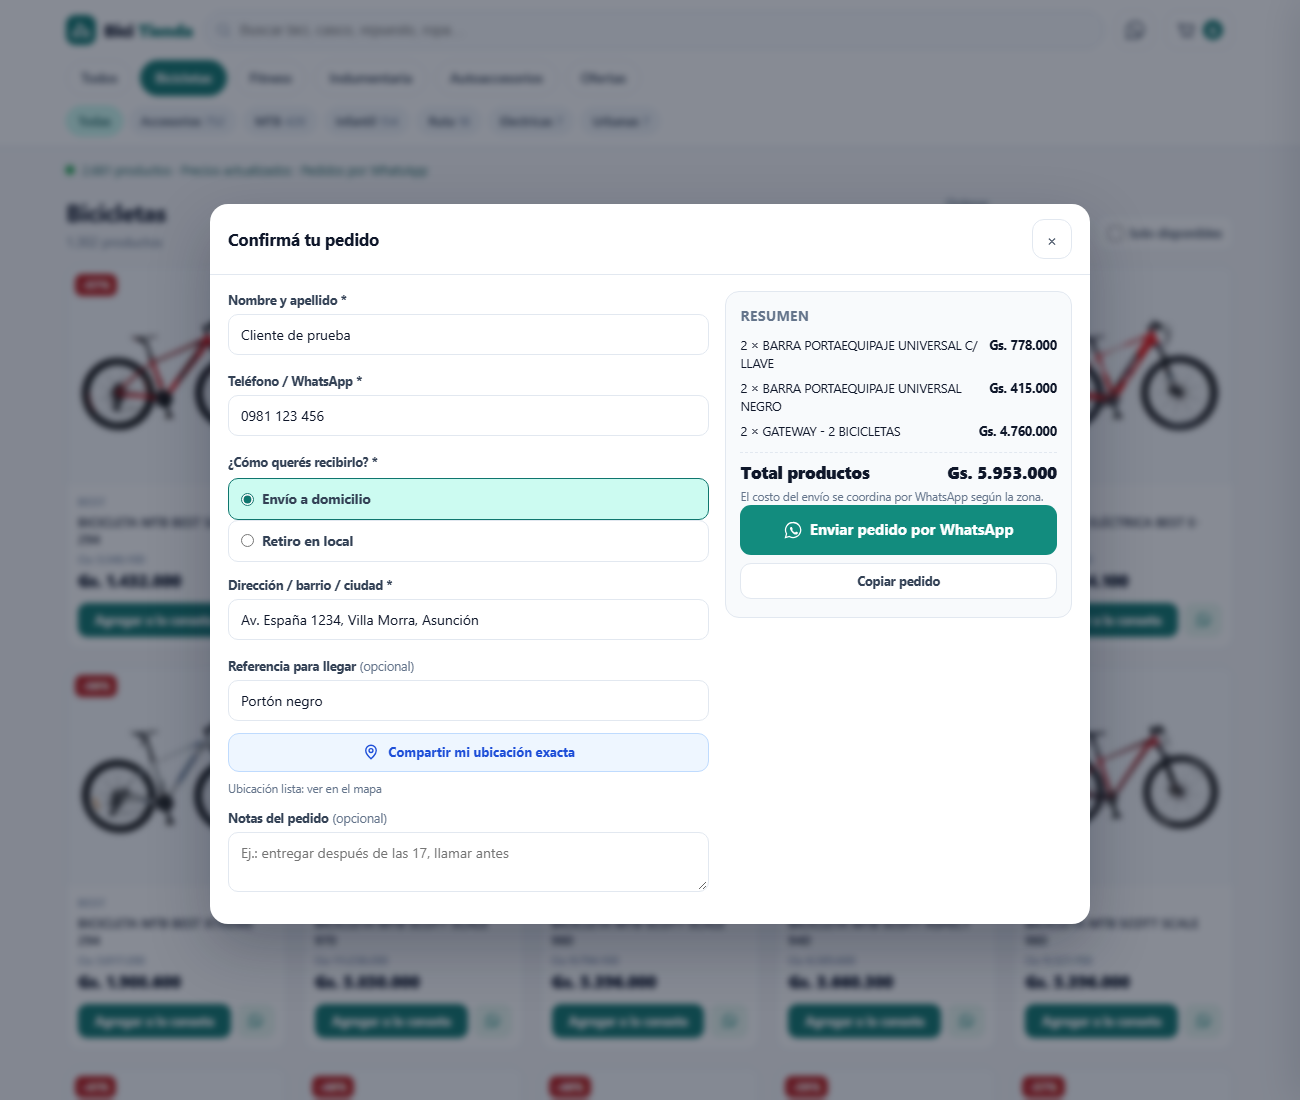
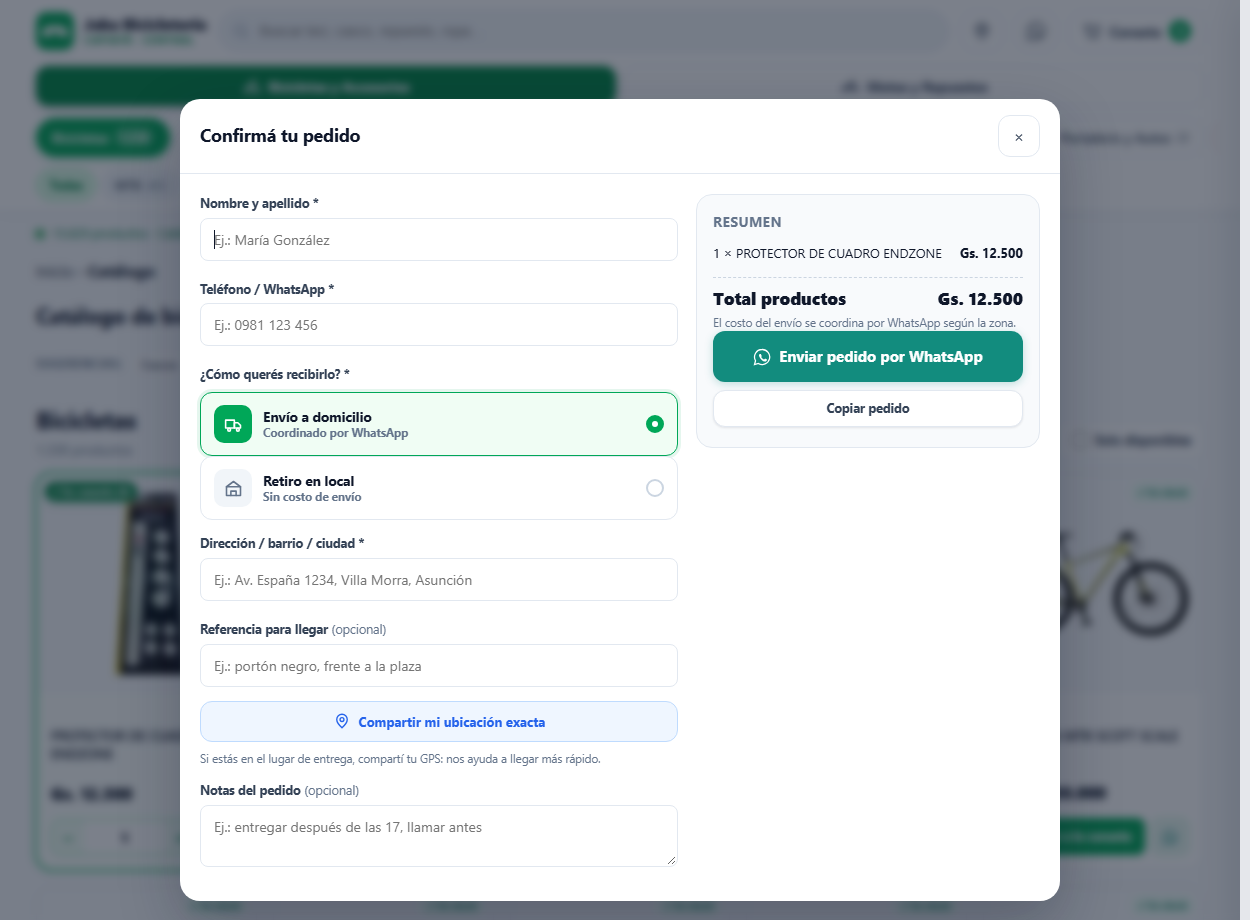
Rediseñar botones de entrega del checkout (envio/retiro)

diff --git a/tienda/tienda.html b/tienda/tienda.html
@@ -41,9 +41,9 @@
 <link rel="preconnect" href="https://www.chacomer.com.py" crossorigin>
 <link rel="dns-prefetch" href="https://www.ciclovia.com.py">
 <link rel="dns-prefetch" href="https://www.chacomer.com.py">
-<link rel="preload" as="style" href="assets/estilos.css?v=20261116c">
+<link rel="preload" as="style" href="assets/estilos.css?v=20261116d">
 <link rel="preload" as="fetch" crossorigin href="data/indice.json">
-<link rel="preload" as="script" href="assets/app.js?v=20261116c">
+<link rel="preload" as="script" href="assets/app.js?v=20261116d">
 
 <!-- Geolocalización (SEO local) -->
 <meta name="geo.region" content="PY-11">
@@ -56,7 +56,7 @@
 <link rel="apple-touch-icon" sizes="180x180" href="assets/apple-touch-icon.png">
 <link rel="shortcut icon" href="assets/favicon.ico">
 <link rel="manifest" href="manifest.json">
-<link rel="stylesheet" href="assets/estilos.css?v=20261116c">
+<link rel="stylesheet" href="assets/estilos.css?v=20261116d">
 <link rel="preload" href="data/indice.json" as="fetch" crossorigin>
 
 <!-- Datos estructurados: negocio local (BikeStore) -->
@@ -366,8 +366,18 @@ src="https://www.facebook.com/tr?id=1521450706425502&ev=PageView&noscript=1"/></
 
         <fieldset class="campo campo--entrega">
           <legend>¿Cómo querés recibirlo? *</legend>
-          <label class="opcion"><input type="radio" name="entrega" value="envio" checked> <span id="opcion-envio">Envío a domicilio</span></label>
-          <label class="opcion"><input type="radio" name="entrega" value="retiro"> <span id="opcion-retiro">Retiro en local</span></label>
+          <label class="opcion opcion--entrega">
+            <input type="radio" name="entrega" value="envio" checked>
+            <span class="opcion__icono" aria-hidden="true"><svg viewBox="0 0 24 24" fill="none" stroke="currentColor" stroke-width="1.8" stroke-linecap="round" stroke-linejoin="round"><path d="M3 7h10v9H3z"/><path d="M13 10h4l3 3v3h-7z"/><circle cx="7" cy="18" r="1.6"/><circle cx="17" cy="18" r="1.6"/></svg></span>
+            <span class="opcion__texto"><strong id="opcion-envio">Envío a domicilio</strong><small>Coordinado por WhatsApp</small></span>
+            <span class="opcion__marca" aria-hidden="true"></span>
+          </label>
+          <label class="opcion opcion--entrega">
+            <input type="radio" name="entrega" value="retiro">
+            <span class="opcion__icono" aria-hidden="true"><svg viewBox="0 0 24 24" fill="none" stroke="currentColor" stroke-width="1.8" stroke-linecap="round" stroke-linejoin="round"><path d="M4 10h16v10H4z"/><path d="M4 10l8-6 8 6"/><path d="M9 20v-5h6v5"/></svg></span>
+            <span class="opcion__texto"><strong id="opcion-retiro">Retiro en local</strong><small>Sin costo de envío</small></span>
+            <span class="opcion__marca" aria-hidden="true"></span>
+          </label>
         </fieldset>
 
         <div id="bloque-envio">
@@ -443,8 +453,8 @@ src="https://www.facebook.com/tr?id=1521450706425502&ev=PageView&noscript=1"/></
 <!-- ================= Aviso flotante ================= -->
 <div class="toast" id="toast" role="status" aria-live="polite"></div>
 
-<script src="assets/config.js?v=20261116c"></script>
-<script src="assets/app.js?v=20261116c"></script>
+<script src="assets/config.js?v=20261116d"></script>
+<script src="assets/app.js?v=20261116d"></script>
 
 <!-- Service Worker para PWA -->
 <script>

diff --git a/tienda/assets/estilos.css b/tienda/assets/estilos.css
@@ -1444,28 +1444,86 @@ h1.titulo-pagina {
 
 fieldset.campo { border: 0; padding: 0; margin: 0 0 14px; display: block; }
 fieldset.campo legend { font-size: 12.5px; font-weight: 700; color: var(--tinta-suave); margin-bottom: 8px; padding: 0; }
-.campo--entrega { display: flex; flex-direction: row; flex-wrap: wrap; gap: 10px; align-items: stretch; }
-.campo--entrega legend { flex: 0 0 100%; }
-.campo--entrega .opcion {
+.campo--entrega {
+  display: grid;
+  grid-template-columns: 1fr 1fr;
+  gap: 10px;
+  align-items: stretch;
+}
+.campo--entrega legend { grid-column: 1 / -1; }
+.campo--entrega .opcion--entrega {
   display: flex;
   align-items: center;
-  gap: 8px;
-  flex: 1 1 190px;
-  border: 1px solid var(--linea);
-  border-radius: var(--radio-sm);
-  padding: 12px 14px;
-  font-size: 13.5px;
-  cursor: pointer;
+  gap: 11px;
+  padding: 12px 13px;
+  border: 1.5px solid var(--linea);
+  border-radius: 12px;
   background: #fff;
-  transition: all 0.15s;
+  cursor: pointer;
+  position: relative;
+  min-height: 64px;
+  transition: border-color 0.15s, background 0.15s, box-shadow 0.15s;
 }
-.campo--entrega .opcion:hover { background: #f8fafc; }
-.campo--entrega .opcion:has(input:checked) {
+.campo--entrega .opcion--entrega:hover { border-color: #cbd5e1; background: #f8fafc; }
+.campo--entrega input[type="radio"] {
+  position: absolute;
+  opacity: 0;
+  width: 1px;
+  height: 1px;
+  padding: 0;
+  margin: 0;
+  border: 0;
+  pointer-events: none;
+}
+.campo--entrega .opcion__icono {
+  display: grid;
+  place-items: center;
+  width: 38px;
+  height: 38px;
+  border-radius: 10px;
+  background: #f1f5f9;
+  color: #64748b;
+  flex: none;
+  transition: background 0.15s, color 0.15s;
+}
+.campo--entrega .opcion__icono svg { width: 21px; height: 21px; }
+.campo--entrega .opcion__texto {
+  display: flex;
+  flex-direction: column;
+  gap: 2px;
+  line-height: 1.25;
+  min-width: 0;
+}
+.campo--entrega .opcion__texto strong { font-size: 13.5px; font-weight: 700; color: var(--tinta); }
+.campo--entrega .opcion__texto small { font-size: 11.5px; color: var(--gris); }
+.campo--entrega .opcion__marca {
+  margin-left: auto;
+  width: 18px;
+  height: 18px;
+  border-radius: 50%;
+  border: 2px solid #cbd5e1;
+  flex: none;
+  display: grid;
+  place-items: center;
+  transition: border-color 0.15s, background 0.15s;
+}
+.campo--entrega .opcion--entrega:has(input:checked) {
   border-color: var(--verde);
   background: var(--verde-fondo);
-  font-weight: 700;
+  box-shadow: 0 0 0 3px rgba(0, 167, 88, 0.1);
 }
-.campo--entrega input { accent-color: var(--verde); margin: 0; }
+.campo--entrega .opcion--entrega:has(input:checked) .opcion__icono { background: var(--verde); color: #fff; }
+.campo--entrega .opcion--entrega:has(input:checked) .opcion__marca { border-color: var(--verde); background: var(--verde); }
+.campo--entrega .opcion--entrega:has(input:checked) .opcion__marca::after {
+  content: "";
+  width: 6px;
+  height: 6px;
+  border-radius: 50%;
+  background: #fff;
+}
+@media (max-width: 560px) {
+  .campo--entrega { grid-template-columns: 1fr; }
+}
 
 .ayuda { font-size: 11.5px; color: var(--gris); margin: 4px 0 0; line-height: 1.4; }
 
